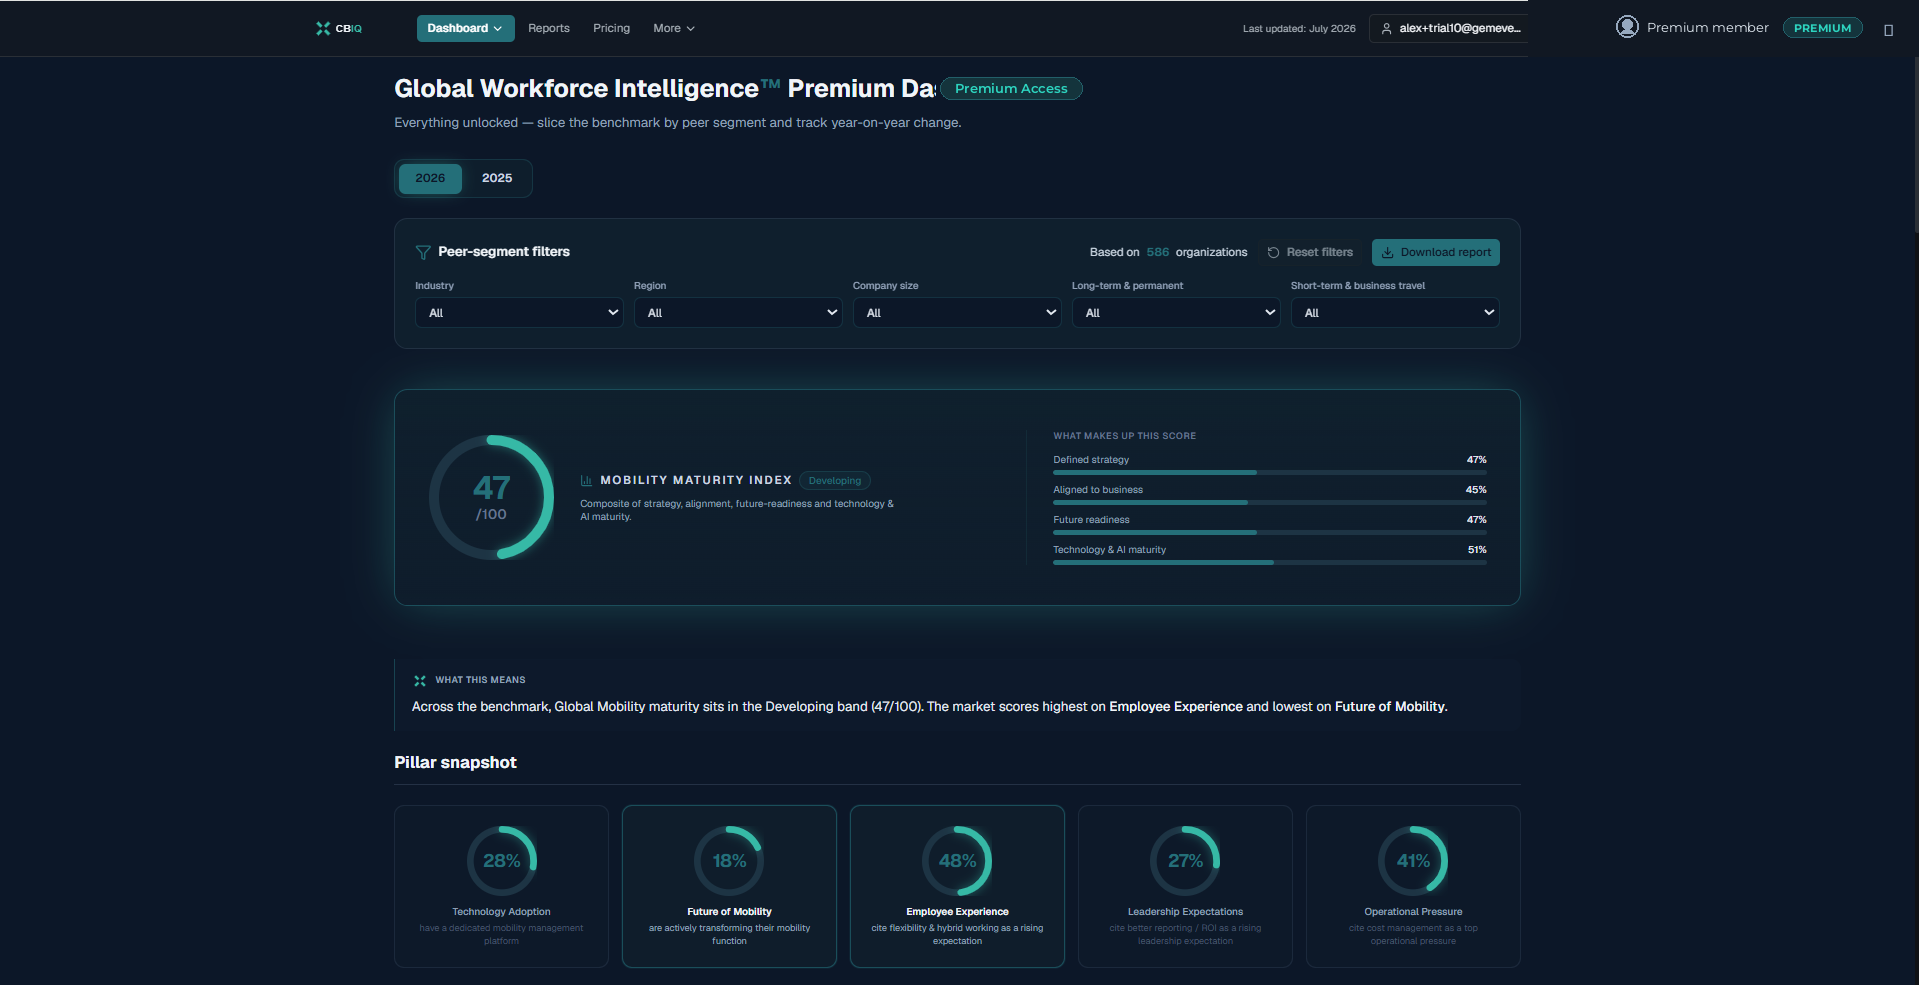
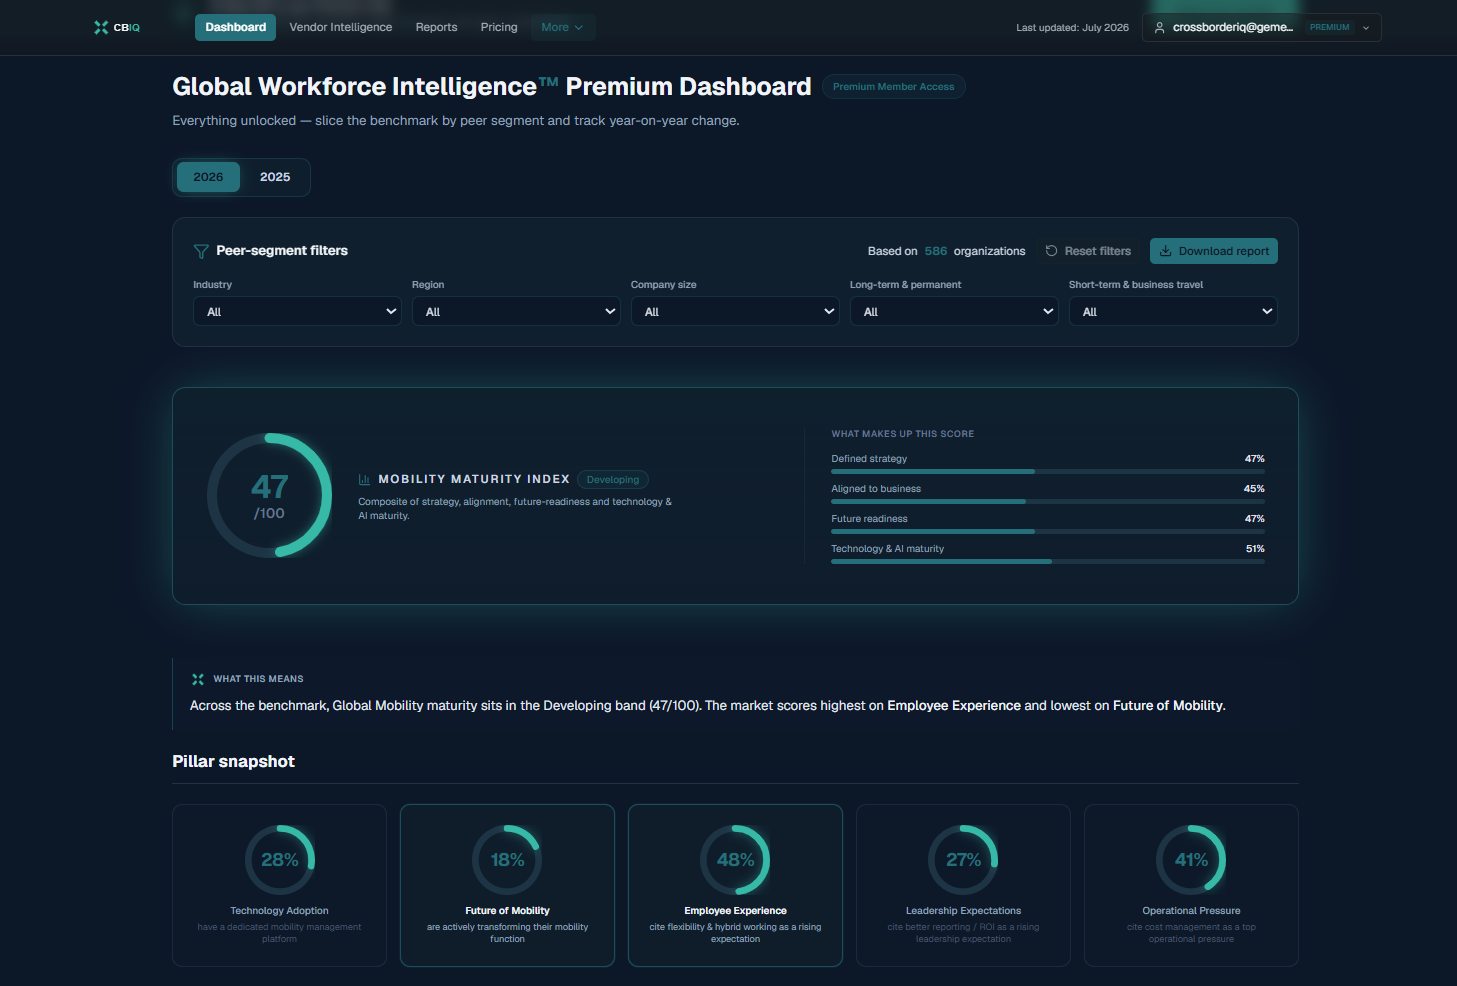
feat: adjust dashboard background layout and image for better mobile view

diff --git a/app/page.tsx b/app/page.tsx
@@ -253,7 +253,7 @@ export default async function HomePage() {
                       "What this means" line; mobile zooms into the gauge + maturity index so
                       it stays legible instead of shrinking the whole width down. */}
                   <div
-                    className="w-full bg-brand-navy-2 bg-no-repeat aspect-[4/3] bg-[length:230%_auto] bg-[position:20%_44%] sm:aspect-[11/4] sm:bg-[length:100%_auto] sm:bg-top"
+                    className="w-full bg-brand-navy-2 bg-no-repeat aspect-[4/3] bg-[length:210%_auto] bg-[position:18%_40%] sm:aspect-[12/5] sm:bg-[length:100%_auto] sm:bg-top"
                     style={{ backgroundImage: "url(/images/premium-dashboard-preview.png)" }}
                   />
 
